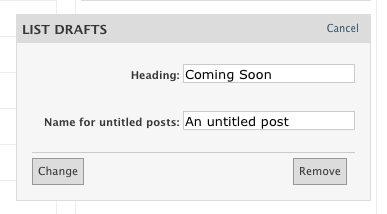
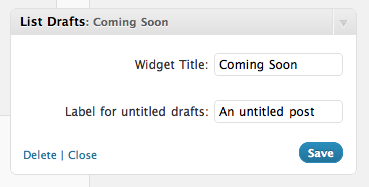
Version 2 - uses WP2.8 widget API
git-svn-id: https://plugins.svn.wordpress.org/list-drafts-widget/trunk@217514 b8457f37-d9ea-0310-8a92-e5e31aec5664

diff --git a/list-drafts.php b/list-drafts.php
@@ -1,9 +1,9 @@
 <?php
 /*
 Plugin Name: List Drafts Widget
-Plugin URI: http://losingit.me.uk/2008/06/29/list-drafts-widget
+Plugin URI: http://losingit.me.uk/2010/03/14/list-drafts-widget-revisited
 Description: A sidebar widget that lists the titles of draft posts
-Version: 1.0.3
+Version: 2.0
 Author: Les Bessant
 Author URI: http://losingit.me.uk/
 */
@@ -11,7 +11,7 @@ Author URI: http://losingit.me.uk/
 
 /*
 List Drafts Widget:
-Copyright (c) 2008 Les Bessant
+Copyright (c) 2008-2010 Les Bessant
 
 This program is free software; you can redistribute it and/or modify
 it under the terms of the GNU General Public License as published by
@@ -28,106 +28,68 @@ with this program; if not, write to the Free Software Foundation, Inc.,
 51 Franklin Street, Fifth Floor, Boston, MA 02110-1301 USA.
 */
 
-function widget_lcb_list_drafts_init() {
+/**
+ * Add function to widgets_init that'll load our widget.
+ * @since 0.1
+ */
+add_action( 'widgets_init', 'listdrafts_load_widgets' );
 
-	// Check to see required Widget API functions are defined...
-	if ( !function_exists('register_sidebar_widget') || !function_exists('register_widget_control') )
-		return; // ...and if not, exit gracefully from the script.
+/**
+ * Register our widget.
+ * 'ListDrafts_Widget' is the widget class used below.
+ *
+ * @since 0.1
+ */
+function listdrafts_load_widgets() {
+	register_widget( 'ListDrafts_Widget' );
+}
 
-	$default_options = array(
-		'title' => 'Coming Soon',
-		'untitled' => 'An untitled post'
-	);
+/**
+ * List Drafts Widget class.
+ * This class handles everything that needs to be handled with the widget:
+ * the settings, form, display, and update.  Nice!
+ *
+ * @since 0.1
+ */
+class ListDrafts_Widget extends WP_Widget {
 
-	add_option('widget_lcb_list_drafts', $default_options );
+	/**
+	 * Widget setup.
+	 */
+	function ListDrafts_Widget() {
+		/* Widget settings. */
+		$widget_ops = array( 'classname' => 'example', 'description' => __('A widget which displays the title of draft posts.', 'listdrafts') );
 
+		/* Widget control settings. */
+		$control_ops = array( 'width' => 300, 'height' => 350, 'id_base' => 'listdrafts-widget' );
 
+		/* Create the widget. */
+		$this->WP_Widget( 'listdrafts-widget', __('List Drafts Widget', 'listdrafts'), $widget_ops, $control_ops );
+	}
 
-	// This function prints the sidebar widget--the cool stuff!
-	function widget_lcb_list_drafts($args) {
+	/**
+	 * How to display the widget on the screen.
+	 */
+	function widget( $args, $instance ) {
+		extract( $args );
 
-		// $args is an array of strings which help your widget
-		// conform to the active theme: before_widget, before_title,
-		// after_widget, and after_title are the array keys.
-		extract($args);
+		/* Our variables from the widget settings. */
+		$title = apply_filters('widget_title', $instance['title'] );
+		$untitled = $instance['untitled'];
+		
 
-		// Collect our widget's options, or define their defaults.
-		$options = get_option('widget_lcb_list_drafts');
-		$title = empty($options['title']) ? 'Coming Soon' : $options['title'];
-		$untitled = empty($options['untitled']) ? 'An untitled post' : $options['untitled'];
-
- 		// It's important to use the $before_widget, $before_title,
- 		// $after_title and $after_widget variables in your output.
-		global $wpdb;
-
-		$my_drafts = $wpdb->get_results("SELECT post_title FROM $wpdb->posts WHERE post_status = 'draft'");
-	if ($my_drafts) {
-
+		/* Before widget (defined by themes). */
 		echo $before_widget;
-		echo $before_title . $title  . $after_title;
-		lcb_list_drafts_output();
-		echo $after_widget;
-	}
-}
-	// This is the function that outputs the form to let users edit
-	// the widget's title and so on. It's an optional feature, but
-	// we'll use it because we can!
-	function widget_lcb_list_drafts_control() {
 
-		// Collect our widget's options.
-		$options = $newoptions = get_option('widget_lcb_list_drafts');
+		/* Display the widget title if one was input (before and after defined by themes). */
+		if ( $title )
+			echo $before_title . $title . $after_title;
 
-		// This is for handing the control form submission.
-		if ( $_POST['lcb_list_drafts-submit'] ) {
-			// Clean up control form submission options
-			$newoptions['title'] = strip_tags(stripslashes($_POST['lcb_list_drafts-title']));
-			$newoptions['untitled'] = strip_tags(stripslashes($_POST['lcb_list_drafts-untitled']));
-
-
-		// If original widget options do not match control form
-		// submission options, update them.
-		if ( $options != $newoptions ) {
-			$options = $newoptions;
-			update_option('widget_lcb_list_drafts', $options);
-		}
-		}
-
-		// Format options as valid HTML. Hey, why not.
-		$title = htmlspecialchars($options['title'], ENT_QUOTES);
-		$untitled = htmlspecialchars($options['untitled'], ENT_QUOTES);
-
-// The HTML below is the control form for editing options.
-?>
-		<div>
-		<p style="text-align:right;"><label for="lcb_list_drafts-title" style="line-height:35px;display:block;">Widget Title: <input type="text" id="lcb_list_drafts-title" name="lcb_list_drafts-title" value="<?php echo $title; ?>" /></label></p>
-		<p style="text-align:right;"><label for="lcb_list_drafts-untitled" style="line-height:35px;display:block;">Label for untitled drafts: <input type="text" id="lcb_list_drafts-untitled" name="lcb_list_drafts-untitled" value="<?php echo $untitled; ?>" /></label></p>
-		<input type="hidden" name="lcb_list_drafts-submit" id="lcb_list_drafts-submit" value="1" />
-		</div>
-	<?php
-	// end of widget_lcb_list_drafts_control()
-	}
-
-	// This registers the widget. About time.
-	register_sidebar_widget('List Drafts', 'widget_lcb_list_drafts');
-
-	// This registers the (optional!) widget control form.
-	register_widget_control('List Drafts', 'widget_lcb_list_drafts_control',315,175);
-}
-
-
-
-// This is the function that outputs the list into the widget
-function lcb_list_drafts_output() {
-	global $wpdb;
-
-	// initialise the variables
-	$options = get_option('widget_lcb_list_drafts');
-	$untitled = $options['untitled'];
-
-
-/*	This is where we extract the draft titles - Adapted from code provided by mdawaffe in the Wordpress Forum:
+		/* List them */
+		/*	This is where we extract the draft titles - Adapted from code provided by mdawaffe in the Wordpress Forum:
 	http://wordpress.org/support/topic/34503#post-195148
 */
+global $wpdb;
 $my_drafts = $wpdb->get_results("SELECT post_title FROM $wpdb->posts WHERE post_status = 'draft'");
 	if ($my_drafts) {
 
@@ -145,8 +107,51 @@ $my_drafts = $wpdb->get_results("SELECT post_title FROM $wpdb->posts WHERE post_
 		echo $my_draft_list;
 	}
 
+
+		
+		
+		/* After widget (defined by themes). */
+		echo $after_widget;
+	}
+
+	/**
+	 * Update the widget settings.
+	 */
+	function update( $new_instance, $old_instance ) {
+		$instance = $old_instance;
+
+		/* Strip tags for title and name to remove HTML (important for text inputs). */
+		$instance['title'] = strip_tags( $new_instance['title'] );
+		$instance['untitled'] = strip_tags( $new_instance['untitled'] );
+
+		return $instance;
+	}
+
+	/**
+	 * Displays the widget settings controls on the widget panel.
+	 * Make use of the get_field_id() and get_field_name() function
+	 * when creating your form elements. This handles the confusing stuff.
+	 */
+	function form( $instance ) {
+
+		/* Set up some default widget settings. */
+		$defaults = array( 'title' => __('List Drafts', 'listdrafts'), 'untitled' => __('An untitled post', 'listdrafts'));
+		$instance = wp_parse_args( (array) $instance, $defaults ); ?>
+
+		<!-- Widget Title: Text Input -->
+		<p>
+			<label for="<?php echo $this->get_field_id( 'title' ); ?>"><?php _e('Title:', 'hybrid'); ?></label>
+			<input id="<?php echo $this->get_field_id( 'title' ); ?>" name="<?php echo $this->get_field_name( 'title' ); ?>" value="<?php echo $instance['title']; ?>" style="width:100%;" />
+		</p>
+
+		<!-- Name for Untitled Posts: Text Input -->
+		<p>
+			<label for="<?php echo $this->get_field_id( 'untitled' ); ?>"><?php _e('Label for untitled posts', 'listdrafts'); ?></label>
+			<input id="<?php echo $this->get_field_id( 'untitled' ); ?>" name="<?php echo $this->get_field_name( 'untitled' ); ?>" value="<?php echo $instance['untitled']; ?>" style="width:100%;" />
+		</p>
+
+	<?php
+	}
 }
 
-// Delays plugin execution until Dynamic Sidebar has loaded first.
-add_action('plugins_loaded', 'widget_lcb_list_drafts_init');
 ?>
